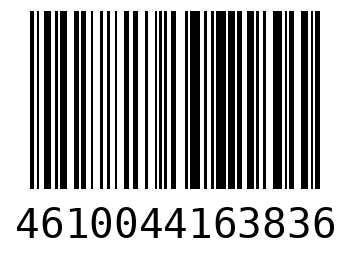
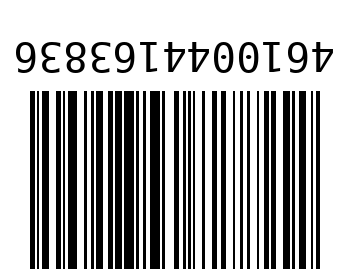
auto detect cropping

diff --git a/static/js/app.js b/static/js/app.js
@@ -233,16 +233,71 @@ async function startHtml5() {
 }
 
 // ------- Crop flow -------
+// async function openCrop() {
+//   const file = fileInput.files && fileInput.files[0];
+//   if (!file) return alert("Choose an image first.");
+
+//   // Stop live scanning if running
+//   if (running) await stopLive();
+
+//   mode = "crop";
+//   setScanUiMode("crop");
+//   setStatus("Adjust crop rectangle, then Decode.");
+
+//   await cropper.loadFile(file);
+// }
+
+async function fileToCanvas(file) {
+  /*
+    Convert uploaded file into a canvas so we can try automatic decoding
+    before opening the crop tool.
+  */
+  const img = new Image();
+  img.src = URL.createObjectURL(file);
+  await img.decode();
+  URL.revokeObjectURL(img.src);
+
+  const canvas = document.createElement("canvas");
+  canvas.width = img.width;
+  canvas.height = img.height;
+
+  const ctx = canvas.getContext("2d", { willReadFrequently: true });
+  ctx.drawImage(img, 0, 0);
+
+  return canvas;
+}
+
 async function openCrop() {
   const file = fileInput.files && fileInput.files[0];
-  if (!file) return alert("Choose an image first.");
+  if (!file) {
+    alert("Choose an image first.");
+    return;
+  }
 
-  // Stop live scanning if running
-  if (running) await stopLive();
+  if (running) {
+    await stopLive();
+  }
 
+  setStatus("Trying to decode uploaded image automatically...");
+
+  try {
+    // Step 1: try decoding the full image first
+    const fullImageCanvas = await fileToCanvas(file);
+    const autoDecoded = await decodeFromCroppedCanvas(fullImageCanvas);
+
+    if (autoDecoded) {
+      setCode(autoDecoded);
+      setStatus("Code detected automatically from uploaded image.");
+      return;
+    }
+  } catch (error) {
+    console.log("Automatic full-image decode failed:", error);
+  }
+
+  // Step 2: if auto-decode fails, fall back to manual crop UI
   mode = "crop";
   setScanUiMode("crop");
-  setStatus("Adjust crop rectangle, then Decode.");
+  setStatus("Automatic decode failed. Adjust crop rectangle, then Decode.");
 
   await cropper.loadFile(file);
 }
